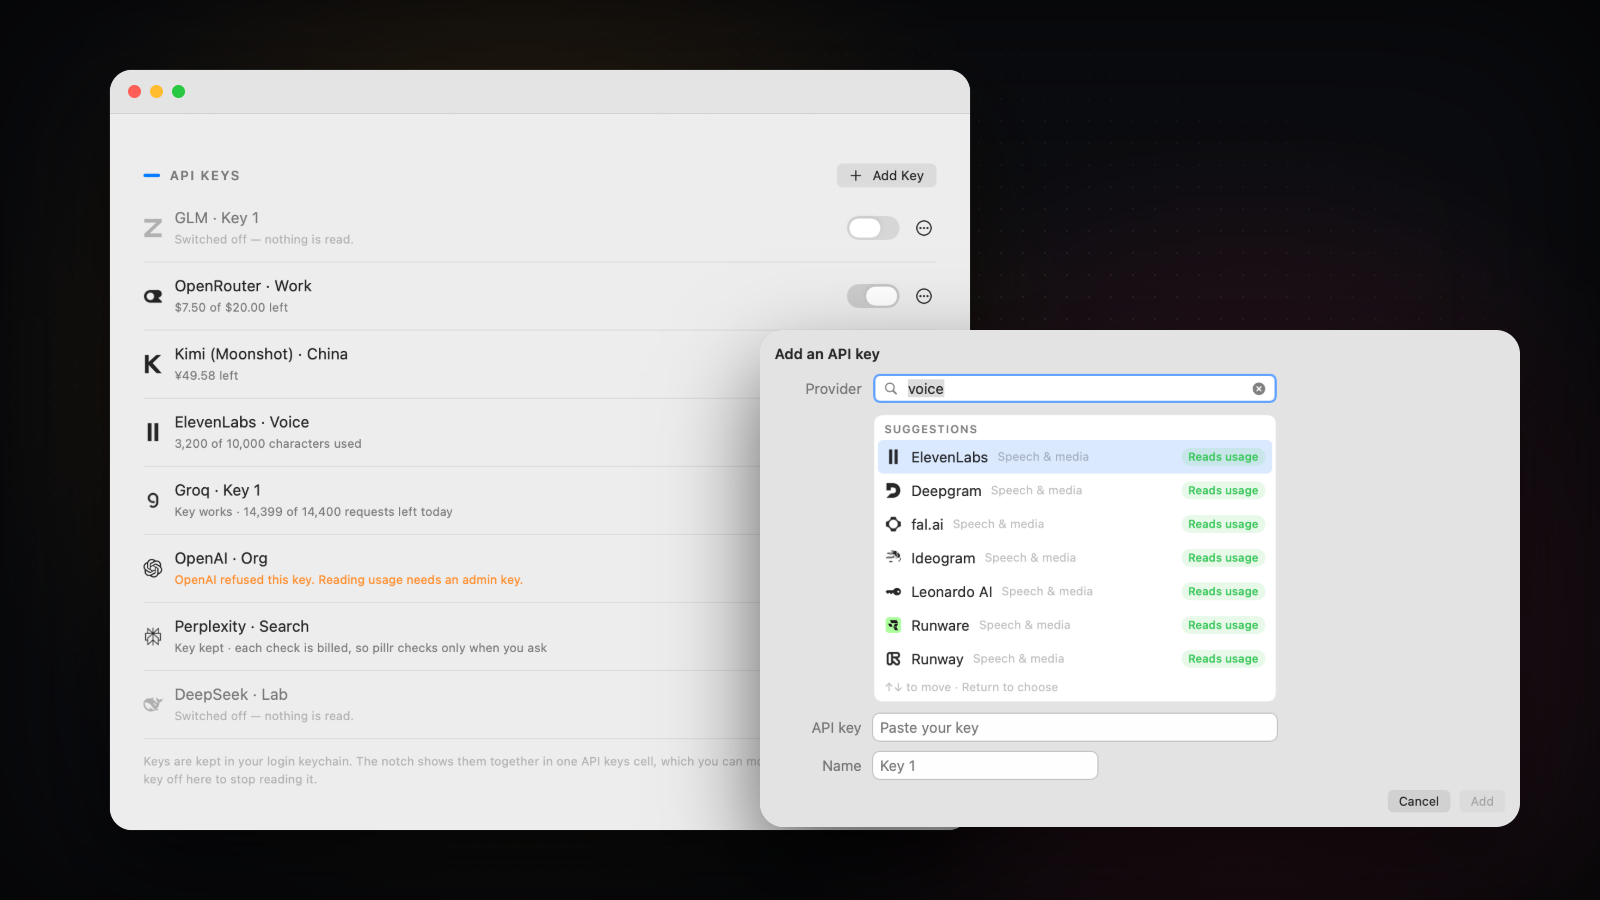
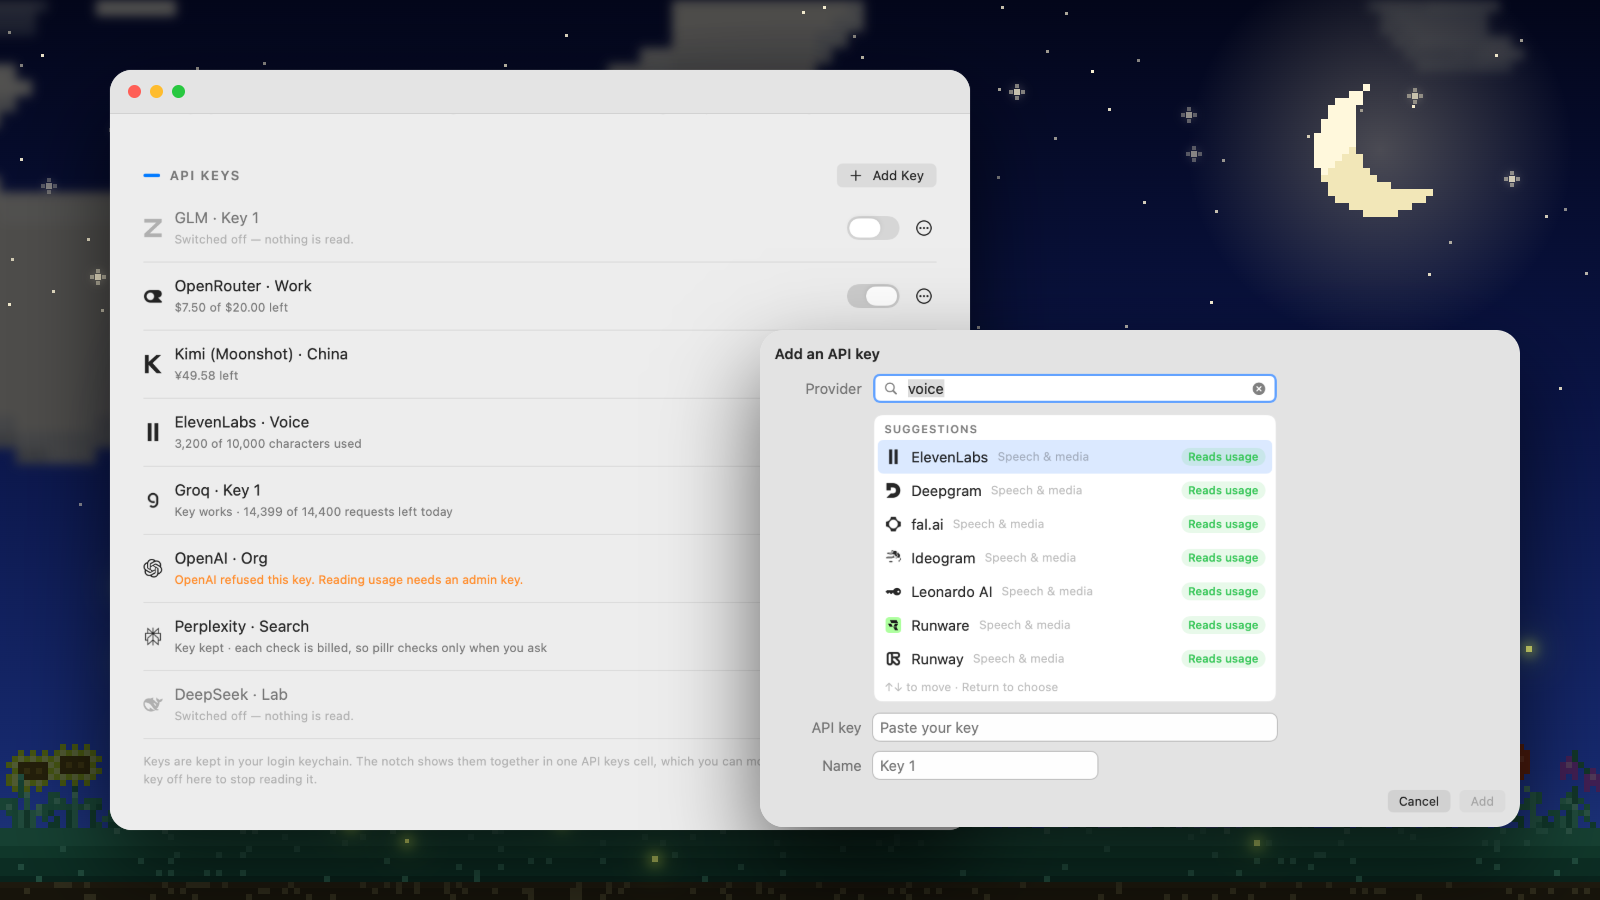
README pictures in the film's world: a different hour for each

diff --git a/docs/media/README.md b/docs/media/README.md
@@ -1,21 +1,24 @@
 # Media
 
-Images used by the README — drawn for it alone, so it shows what the film and
-the landing page do not.
+Images used by the README — the film's world of pixel sky and meadow, but
+each at its own hour, so none repeats the film or the landing page.
 
 - `lockup-black.png`, `lockup-white.png` — the halftone iris beside the word
   pillr in Inter, as the film and the app icon draw it; 790 × 320, shown at 280
   wide, for light and dark GitHub themes. The film project's `Lockup`
   composition at 2× (`--props='{"color":"#FFFFFF"}'` for white), trimmed.
-- `meme.gif` — the README's opening loop, 7 s: six agents and no idea who's
-  done, then pillr and a pair of pixel sunglasses. Original art, the app's own
+- `meme.gif` — the README's opening loop, 7 s: a storm over the meadow, six
+  agents and no idea who's done; then noon and a rainbow, pillr and a pair of
+  pixel sunglasses. Original art, the app's own
   pill and card; the film project's `ReadmeMeme` composition (`src/Meme.tsx`),
   rendered to MP4 and turned into an 800-wide, 15 fps GIF with palettegen.
 - `shots/` — 1600-wide stills shown at 800: the app's own cards and settings
   panes, exported by its render tests (`EFFORT_RENDER_DIR=… swift test --filter
-  Render`), cut out and laid on a graphite studio by the film project's
+  Render`), cut out and laid on the meadow by the film project's
   `Readme*` compositions (`src/Readme.tsx`, sources in `public/readme/`):
-  `hero`, `sessions`, `done`, `questions`, `api-keys`, `effort`.
+  `hero` (noon, a rainbow), `sessions` (golden hour), `done` (sunset and
+  fireworks), `questions` (dusk), `api-keys` (night, fireflies), `effort`
+  (an aurora).
 
   ```bash
   npx remotion still ReadmeHero out/readme/ReadmeHero.png

diff --git a/README.md b/README.md
@@ -24,7 +24,7 @@
 </p>
 
 <p align="center">
-  <img src="docs/media/meme.gif" alt="When you have 6 coding agents running and no idea who's done — terminals shaking, alerts piling up. Me with pillr: one pill on the screen's edge, a done card, and pixel sunglasses landing on it. One pill. Zero panic." width="800">
+  <img src="docs/media/meme.gif" alt="When you have 6 coding agents running and no idea who's done — a storm, terminals shaking, alerts piling up. Me with pillr: noon and a rainbow over the meadow, one pill on the screen's edge, a done card, and pixel sunglasses landing on it. One pill. Zero panic." width="800">
 </p>
 
 > [!NOTE]
